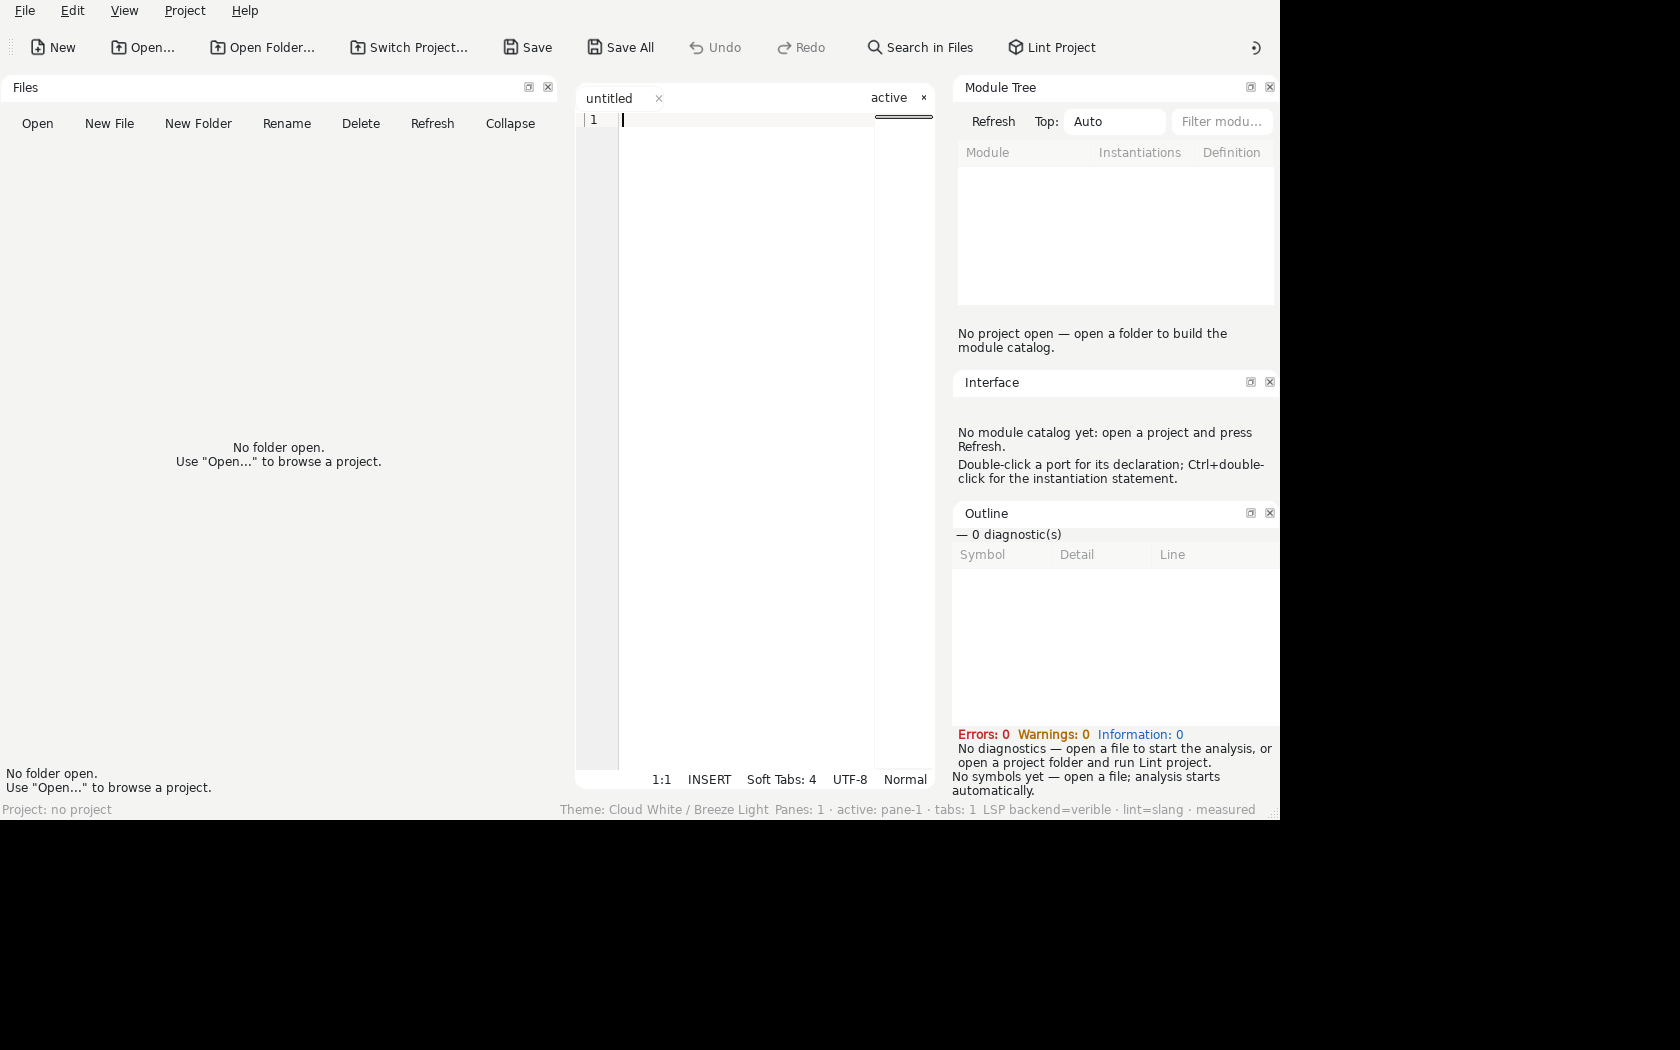
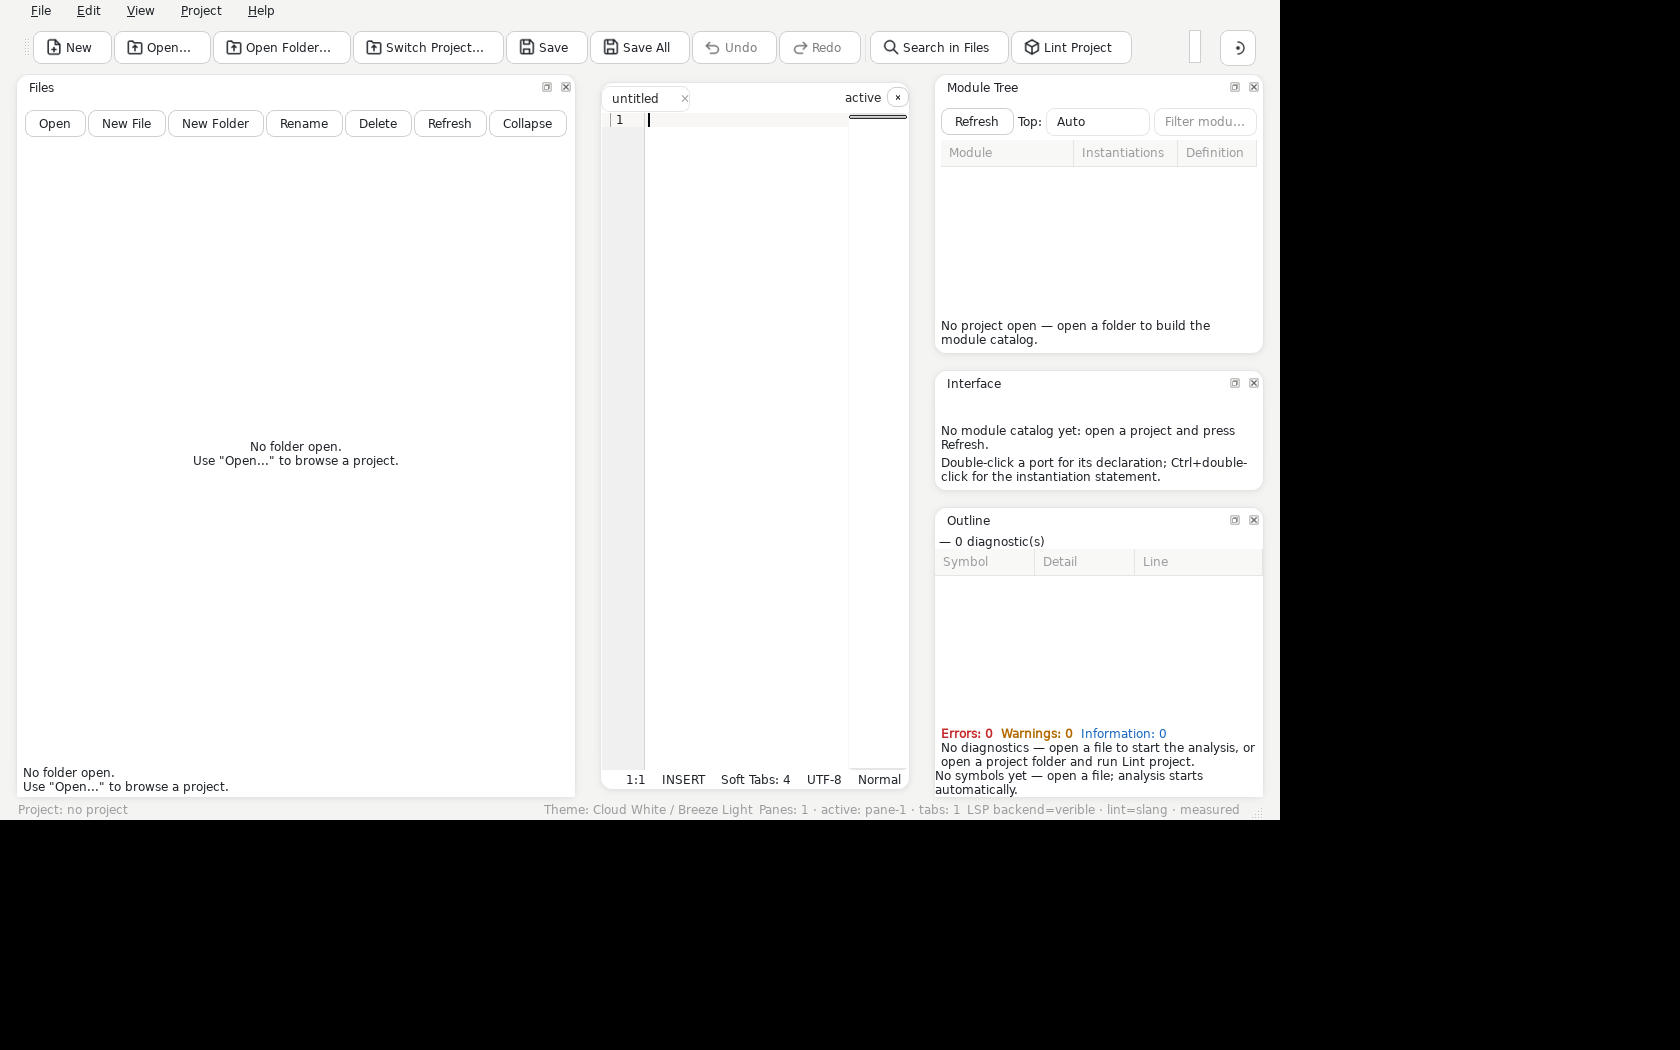
docs(evidence): 视觉修复后的 AppImage 重打包与包内实测（sha 3cfd24f0）

diff --git a/evidence/ui-mosaic/README.md b/evidence/ui-mosaic/README.md
@@ -96,3 +96,11 @@
 
 最终验收（船长自测，六套主题，`screenshots/after-*.png`）：外圈 8px 卡片像素 **0**；纵向连续画布 **10px**、横向 **16–18px**；卡片下/左/右阴影 **3–5px**；描边 Δ **24–26**；按钮轮廓 Δ **48–55**（均圆角）。顶部边阴影被子控件重绘覆盖属 Qt 绘制顺序，已按 `CONTRACT.md §5` 豁免并留痕。
 构建 `bash scripts/build-qt.sh` exit 0，全量 ctest **62/62**。`vedit-app-ui-theme-selftest` 的 `dock-separator-gap` 期望值随冻结常量 8→16 同步（仅此一处，见 §5「间隙语义」）。
+
+### 重新打包（视觉修复后）
+
+`bash packaging/runtime/build.sh` → `steps_failed=0`，`BUILD: F2 runtime OK`，`F2-ISOLATION PASS`，CentOS 7 探针 PASS。
+
[1 lines of base64/hex data omitted]
+- 包内实跑截图 `screenshots/appimage-verify.png`：卡片白底 + 可见描边 + 阴影 + 画布间隙 + 按钮轮廓，状态栏 `Theme: Cloud White / Breeze Light` —— 证明修复已进入交付物。
+- 包内 `F1/T2` 复测（同一口径）：外圈 8px 卡片像素 **0**、纵向连续画布 **10px**。
